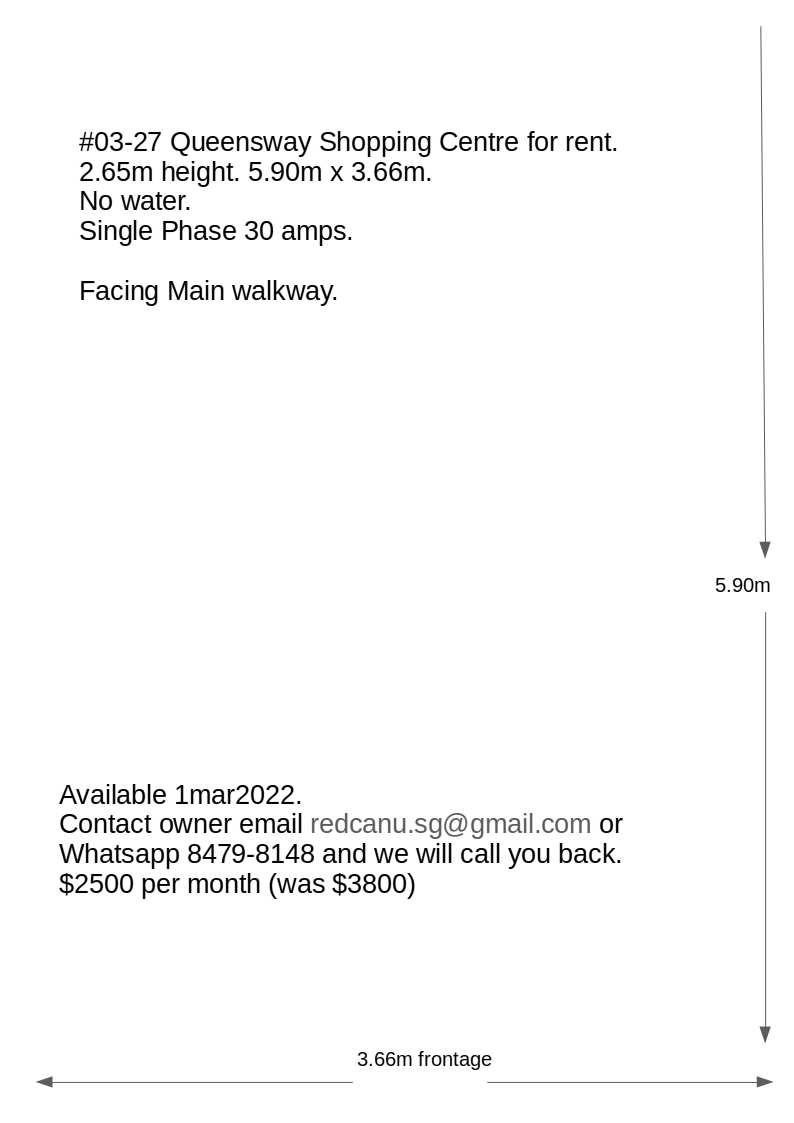
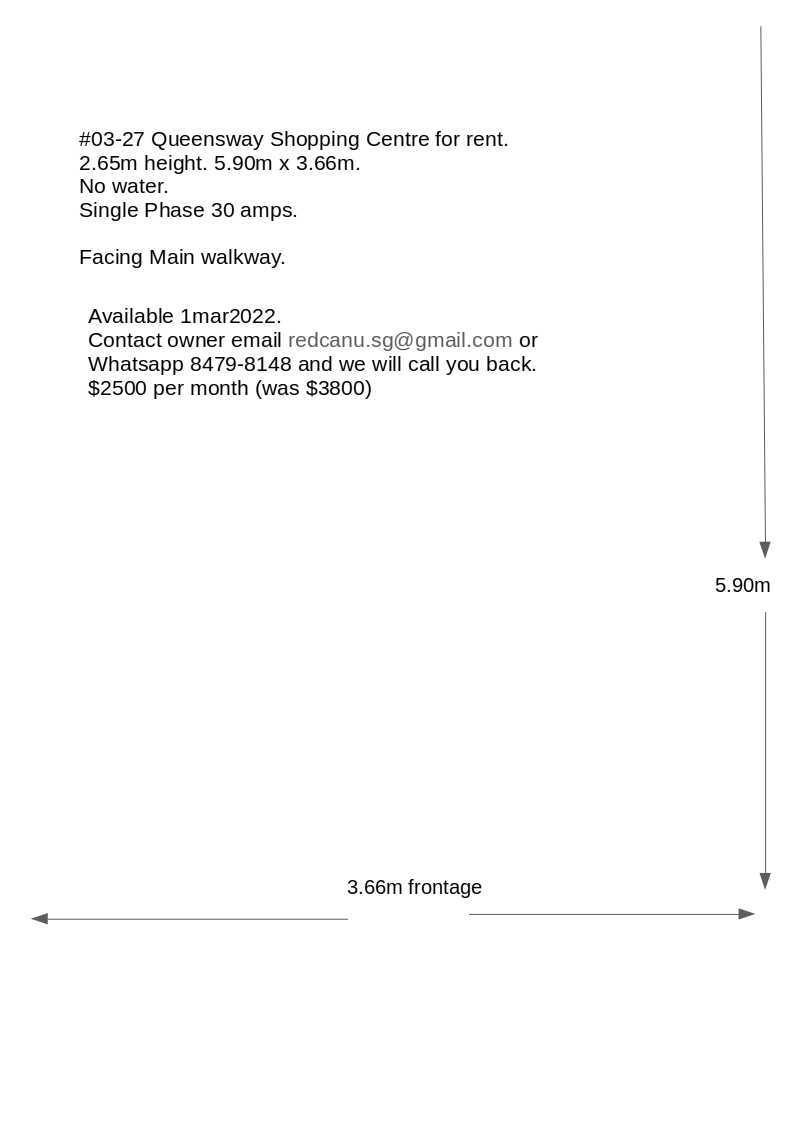
Add files via upload

diff --git a/qw.html b/qw.html
@@ -15,7 +15,7 @@
 
 <div class="left">
 <br><br>
-<img src="qw0327.jpg" alt="qw0327" style="width:100%; margin-left: 1px" align="left">
+<img src="qw0327.jpg" alt="qw0327" style="width:90%; margin-left: 1px" align="left">
 </div>
 
 
